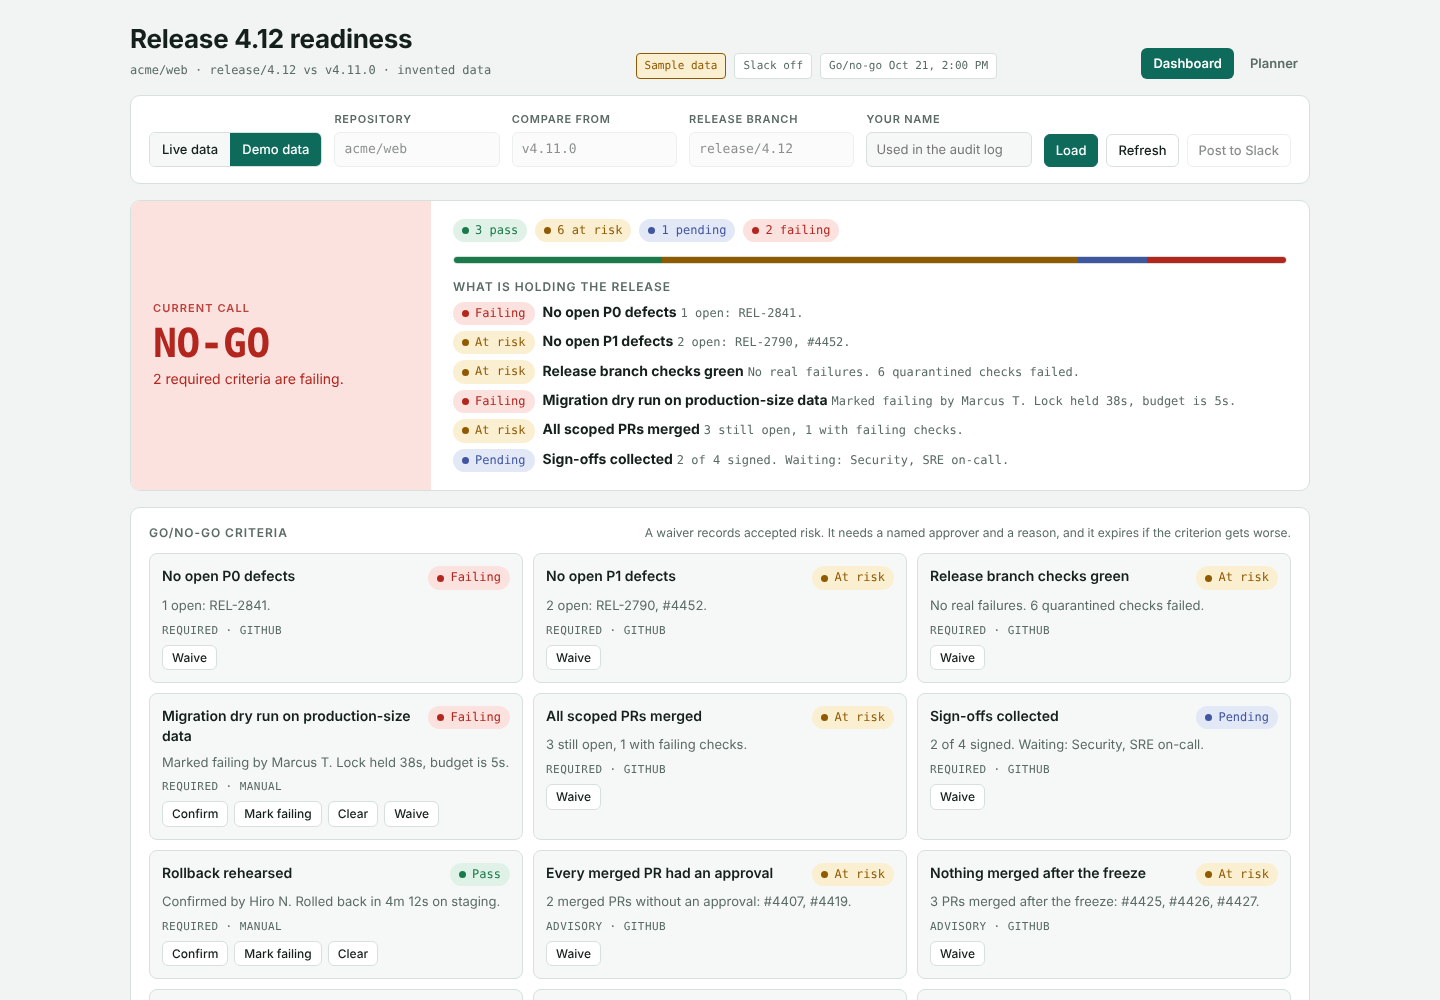
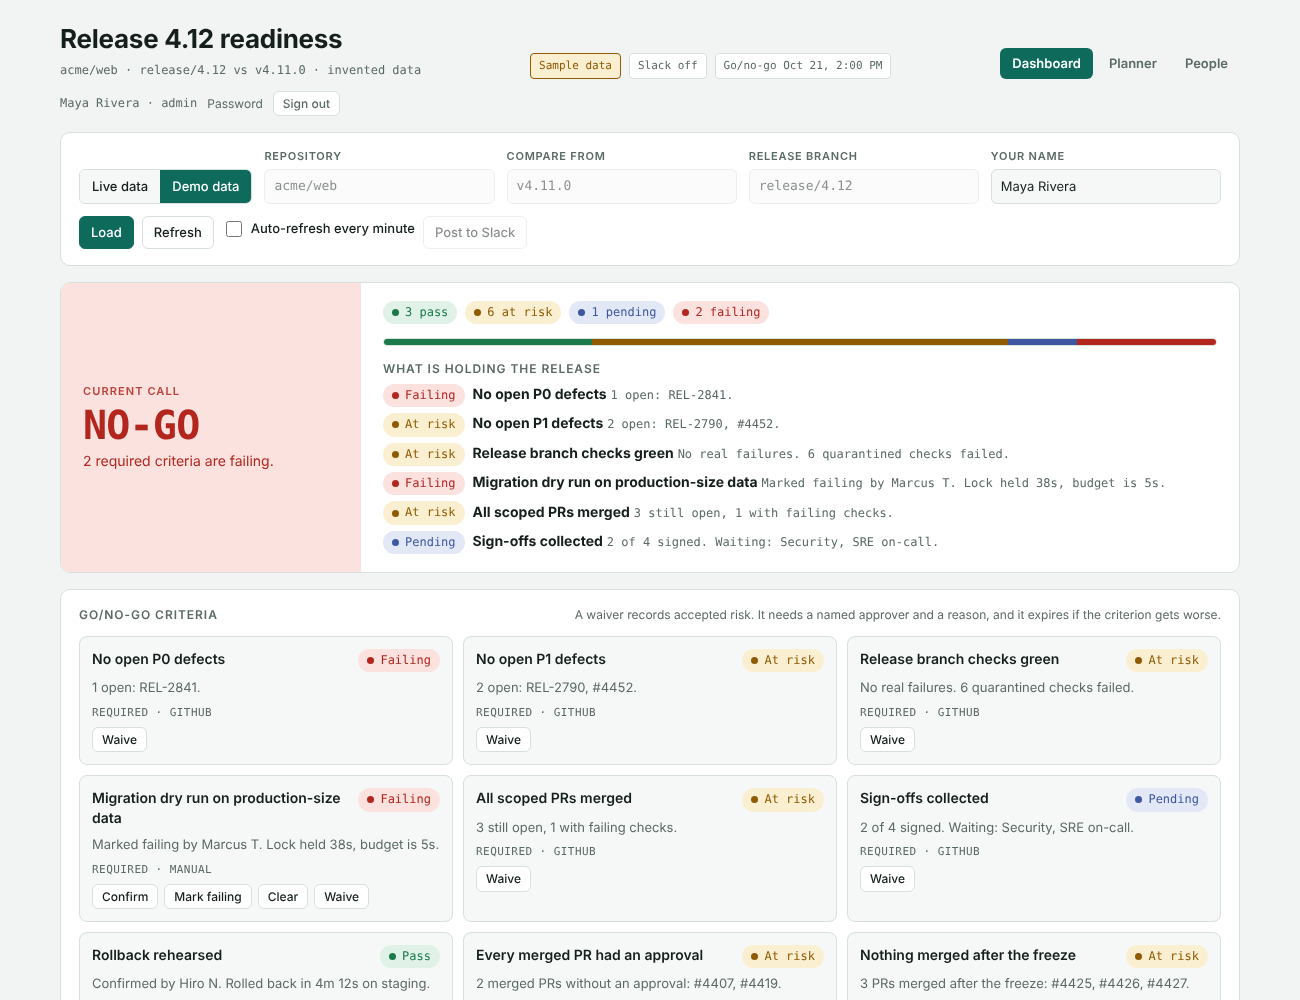
Add screenshots and diagrams to the README; tidy two labels
Claude-Session: https://claude.ai/code/session_01J6ZpA1dHSDu8WDybSqTXX9

diff --git a/dist/release-planner.html b/dist/release-planner.html
@@ -304,6 +304,8 @@ ul.plain { margin: 0; padding-left: 18px; display: flex; flex-direction: column;
 .ai-item > div:first-child { flex: 1 1 220px; min-width: 0; }
 .ai-brief .panel-head h3 { font-size: 13px; display: flex; gap: 8px; align-items: center; flex-wrap: wrap; }
 #ai-audience { font: inherit; font-size: 12px; padding: 3px 6px; border: 1px solid var(--line); border-radius: 6px; background: var(--surface); color: var(--ink); }
+.controls label.autochk { flex: 0 0 auto; flex-direction: row; align-items: center; gap: 6px; text-transform: none; letter-spacing: 0; font-size: 13px; font-weight: 500; color: var(--ink); padding-bottom: 8px; }
+.controls label.autochk input { width: 16px; height: 16px; padding: 0; accent-color: var(--accent); }
 
 </style>
 <div class="wrap">
@@ -1780,8 +1782,8 @@ const SECTIONS = [
     { p: "release.version", l: "Version", mono: true, ph: "4.13.0" },
     { p: "release.type", l: "Release type", t: "select", o: opt(TYPES), after: "tpl" },
     { p: "release.fixVersion", l: "Jira fix version", mono: true, ph: "4.13" },
-    { p: "release.autoSync", l: "Refresh from Jira every few minutes (server does it, even when nobody has this page open)", t: "check", wide: true },
-    { p: "release.slackAlerts", l: "Post to Slack when the go/no-go call changes", t: "check", wide: true },
+    { p: "release.autoSync", l: "Auto-refresh from Jira", t: "check", wide: true },
+    { p: "release.slackAlerts", l: "Slack alert on call change", t: "check", wide: true },
     { p: "release.summary", l: "What changes", t: "textarea", wide: true },
     { p: "release.customerImpact", l: "Customer impact", t: "textarea", wide: true },
   ] },

diff --git a/dist/release-planner.readonly.html b/dist/release-planner.readonly.html
@@ -304,6 +304,8 @@ ul.plain { margin: 0; padding-left: 18px; display: flex; flex-direction: column;
 .ai-item > div:first-child { flex: 1 1 220px; min-width: 0; }
 .ai-brief .panel-head h3 { font-size: 13px; display: flex; gap: 8px; align-items: center; flex-wrap: wrap; }
 #ai-audience { font: inherit; font-size: 12px; padding: 3px 6px; border: 1px solid var(--line); border-radius: 6px; background: var(--surface); color: var(--ink); }
+.controls label.autochk { flex: 0 0 auto; flex-direction: row; align-items: center; gap: 6px; text-transform: none; letter-spacing: 0; font-size: 13px; font-weight: 500; color: var(--ink); padding-bottom: 8px; }
+.controls label.autochk input { width: 16px; height: 16px; padding: 0; accent-color: var(--accent); }
 
 </style>
 <div class="wrap">
@@ -1781,8 +1783,8 @@ const SECTIONS = [
     { p: "release.version", l: "Version", mono: true, ph: "4.13.0" },
     { p: "release.type", l: "Release type", t: "select", o: opt(TYPES), after: "tpl" },
     { p: "release.fixVersion", l: "Jira fix version", mono: true, ph: "4.13" },
-    { p: "release.autoSync", l: "Refresh from Jira every few minutes (server does it, even when nobody has this page open)", t: "check", wide: true },
-    { p: "release.slackAlerts", l: "Post to Slack when the go/no-go call changes", t: "check", wide: true },
+    { p: "release.autoSync", l: "Auto-refresh from Jira", t: "check", wide: true },
+    { p: "release.slackAlerts", l: "Slack alert on call change", t: "check", wide: true },
     { p: "release.summary", l: "What changes", t: "textarea", wide: true },
     { p: "release.customerImpact", l: "Customer impact", t: "textarea", wide: true },
   ] },

diff --git a/dist/release-planner.standalone.html b/dist/release-planner.standalone.html
@@ -309,6 +309,8 @@ ul.plain { margin: 0; padding-left: 18px; display: flex; flex-direction: column;
 .ai-item > div:first-child { flex: 1 1 220px; min-width: 0; }
 .ai-brief .panel-head h3 { font-size: 13px; display: flex; gap: 8px; align-items: center; flex-wrap: wrap; }
 #ai-audience { font: inherit; font-size: 12px; padding: 3px 6px; border: 1px solid var(--line); border-radius: 6px; background: var(--surface); color: var(--ink); }
+.controls label.autochk { flex: 0 0 auto; flex-direction: row; align-items: center; gap: 6px; text-transform: none; letter-spacing: 0; font-size: 13px; font-weight: 500; color: var(--ink); padding-bottom: 8px; }
+.controls label.autochk input { width: 16px; height: 16px; padding: 0; accent-color: var(--accent); }
 
 </style>
 </head>
@@ -1787,8 +1789,8 @@ const SECTIONS = [
     { p: "release.version", l: "Version", mono: true, ph: "4.13.0" },
     { p: "release.type", l: "Release type", t: "select", o: opt(TYPES), after: "tpl" },
     { p: "release.fixVersion", l: "Jira fix version", mono: true, ph: "4.13" },
-    { p: "release.autoSync", l: "Refresh from Jira every few minutes (server does it, even when nobody has this page open)", t: "check", wide: true },
-    { p: "release.slackAlerts", l: "Post to Slack when the go/no-go call changes", t: "check", wide: true },
+    { p: "release.autoSync", l: "Auto-refresh from Jira", t: "check", wide: true },
+    { p: "release.slackAlerts", l: "Slack alert on call change", t: "check", wide: true },
     { p: "release.summary", l: "What changes", t: "textarea", wide: true },
     { p: "release.customerImpact", l: "Customer impact", t: "textarea", wide: true },
   ] },

diff --git a/public/plan-ui.js b/public/plan-ui.js
@@ -223,8 +223,8 @@ const SECTIONS = [
     { p: "release.version", l: "Version", mono: true, ph: "4.13.0" },
     { p: "release.type", l: "Release type", t: "select", o: opt(TYPES), after: "tpl" },
     { p: "release.fixVersion", l: "Jira fix version", mono: true, ph: "4.13" },
-    { p: "release.autoSync", l: "Refresh from Jira every few minutes (server does it, even when nobody has this page open)", t: "check", wide: true },
-    { p: "release.slackAlerts", l: "Post to Slack when the go/no-go call changes", t: "check", wide: true },
+    { p: "release.autoSync", l: "Auto-refresh from Jira", t: "check", wide: true },
+    { p: "release.slackAlerts", l: "Slack alert on call change", t: "check", wide: true },
     { p: "release.summary", l: "What changes", t: "textarea", wide: true },
     { p: "release.customerImpact", l: "Customer impact", t: "textarea", wide: true },
   ] },

diff --git a/public/styles.css b/public/styles.css
@@ -300,3 +300,5 @@ ul.plain { margin: 0; padding-left: 18px; display: flex; flex-direction: column;
 .ai-item > div:first-child { flex: 1 1 220px; min-width: 0; }
 .ai-brief .panel-head h3 { font-size: 13px; display: flex; gap: 8px; align-items: center; flex-wrap: wrap; }
 #ai-audience { font: inherit; font-size: 12px; padding: 3px 6px; border: 1px solid var(--line); border-radius: 6px; background: var(--surface); color: var(--ink); }
+.controls label.autochk { flex: 0 0 auto; flex-direction: row; align-items: center; gap: 6px; text-transform: none; letter-spacing: 0; font-size: 13px; font-weight: 500; color: var(--ink); padding-bottom: 8px; }
+.controls label.autochk input { width: 16px; height: 16px; padding: 0; accent-color: var(--accent); }

diff --git a/README.md b/README.md
@@ -25,6 +25,27 @@ Before a release, someone collects status by hand from the issue tracker, CI, th
 
 ![Planner](docs/planner.png)
 
+It works on a phone too:
+
+<img src="docs/mobile.png" alt="Planner on a phone" width="320">
+
+<details>
+<summary>More screens</summary>
+
+The risk analysis, with a score out of 100 and the reason behind each factor:
+
+![Risk analysis](docs/risk.png)
+
+The ticket table, with team, blocked-by and migration columns:
+
+![Tickets](docs/tickets.png)
+
+The full printable release report (Word and PDF versions look the same):
+
+![Release report](docs/release-report.png)
+
+</details>
+
 ## Dependencies: what waits on what
 
 Some work cannot start until other work is done: the frontend waits for the backend, QA waits for the merge, tickets cannot be written until the designs are handed over. Two things in the planner capture this.
@@ -43,6 +64,10 @@ From that the planner shows, in a Dependencies panel and in the release brief:
 - **circular dependencies**, where tickets wait on each other so none can start
 
 It adds a **Dependencies clear** check to go/no-go (advisory by default; a release can make it required) and a Dependencies factor to the risk score. A blocker that is not in this release's ticket list counts as unresolved, and the Blocked by box is highlighted. **Pull from Jira** fills Blocked by from Jira "is blocked by" links, and **Refresh from Jira** keeps what you typed. I tested the Jira links against a mock, not a live Jira.
+
+![Dependencies panel: longest chain, what to finish first, who is waiting, overdue handoffs](docs/dependencies.png)
+
+![Handoffs between teams, with owner, due date and status](docs/handoffs.png)
 
 ## Using it for every release
 
@@ -66,6 +91,8 @@ Per-release criteria are already supported by the engine: a release can switch a
 ## Sign-in, roles and privacy
 
 ![People page, where admins invite people and set roles](docs/people.png)
+
+![Sign-in page](docs/signin.png)
 
 **Invite only.** There is no sign-up page. An admin adds an email and a role, and the person gets a one-time link to choose their own password. The link works once and expires in 7 days.
 
@@ -145,6 +172,34 @@ Copy `.env.example` and set what you have. Everything is optional.
 Edit `readiness.config.json` to change the repository, release branch, label names, JQL, the Jira story-points field (`customfield_10016` on most sites, but it varies), and the list of criteria.
 
 ## How it works
+
+
+```mermaid
+flowchart TD
+    subgraph Sources
+      J["Jira: tickets, points, blocked-by links"]
+      G["GitHub: PRs, checks, compare"]
+    end
+    subgraph Server
+      S["Auto-refresh job, every few minutes"]
+      E["Engine: criteria and waivers"]
+      R["Risk model: score out of 100"]
+      D["Dependencies: waiting, chains, handoffs"]
+      A["AI helpers: suggest only"]
+      DB[("Saved releases and users")]
+    end
+    J --> S
+    S --> DB
+    G --> E
+    DB --> E
+    D --> E
+    E --> V{"GO, HOLD or NO-GO"}
+    R --> V
+    V --> P["Planner and dashboard"]
+    V --> SL["Slack alert when the call changes"]
+    P --> B["Brief, Word, printable page, status one-pager"]
+    A -. "approved by a person" .-> DB
+```
 
 ```
 GitHub ─┐
@@ -247,6 +302,12 @@ In the planner, the **Release brief** panel has:
 - **Status one-pager**: just the call, dates and risks, for leadership.
 - **.md** and **Copy Markdown**: plain text.
 
+![Release brief panel with Copy for Docs, Word, Printable page and Status one-pager](docs/release-docs.png)
+
+The one-page status for leadership:
+
+![Status one-pager: the call, what is holding the release, dates, risks and what to do](docs/status-onepager.png)
+
 ## Putting it online
 
 See `HOSTING.md` for step-by-step setup on Render (a `Dockerfile` and `render.yaml` are included, so Railway and Fly.io work too). If you miss the first admin link, set `RESEND_ADMIN_LINK=1` and restart to get a new one.
@@ -267,3 +328,29 @@ How it behaves:
 - **What Claude sees.** For the status update: the release name, summary, dates, the call and why, the top risks, counts, the release manager's name, and which tickets wait on what. For the two finders: ticket keys, titles, type, priority, status, area, team and blocked-by. It does not see emails, passwords, Jira tokens or the people list. Ticket titles do leave your server in live mode, so check that is allowed where you work.
 - **Safety.** Ticket text is treated as data, not instructions. Suggestions are checked before you see them: made-up tickets, unknown teams and repeats are dropped. Editors and admins only. Each person is limited to 30 requests an hour (`AI_PER_HOUR`).
 - **Not yet tried against the real API.** Live mode is tested with a stand-in service. Try it with a real key and a small test release first.
+
+![AI helpers: a team update, plus suggested teams and a handoff, each with Apply and Dismiss](docs/ai-helpers.png)
+
+The same panel, writing for leadership:
+
+![Leadership update from the AI helpers panel](docs/ai-leadership.png)
+
+How the helpers stay safe:
+
+```mermaid
+flowchart LR
+    A["Release plan"] --> B{"AI key set?"}
+    B -- no --> C["Demo mode: simple rules, nothing leaves the server"]
+    B -- yes --> D["Claude reads facts and ticket titles"]
+    C --> E["Suggestions"]
+    D --> E
+    E --> F["Checked: real tickets, known teams, no repeats"]
+    F --> G["Shown with a reason and a confidence"]
+    G --> H{"Person decides"}
+    H -- Apply --> I["Plan changes"]
+    H -- Dismiss --> J["Nothing changes"]
+    I --> K["Rules in the engine"]
+    K --> L["GO, HOLD or NO-GO"]
+```
+
+The go/no-go call comes only from the rules on the right. The AI can change what the rules see only when a person presses Apply.
